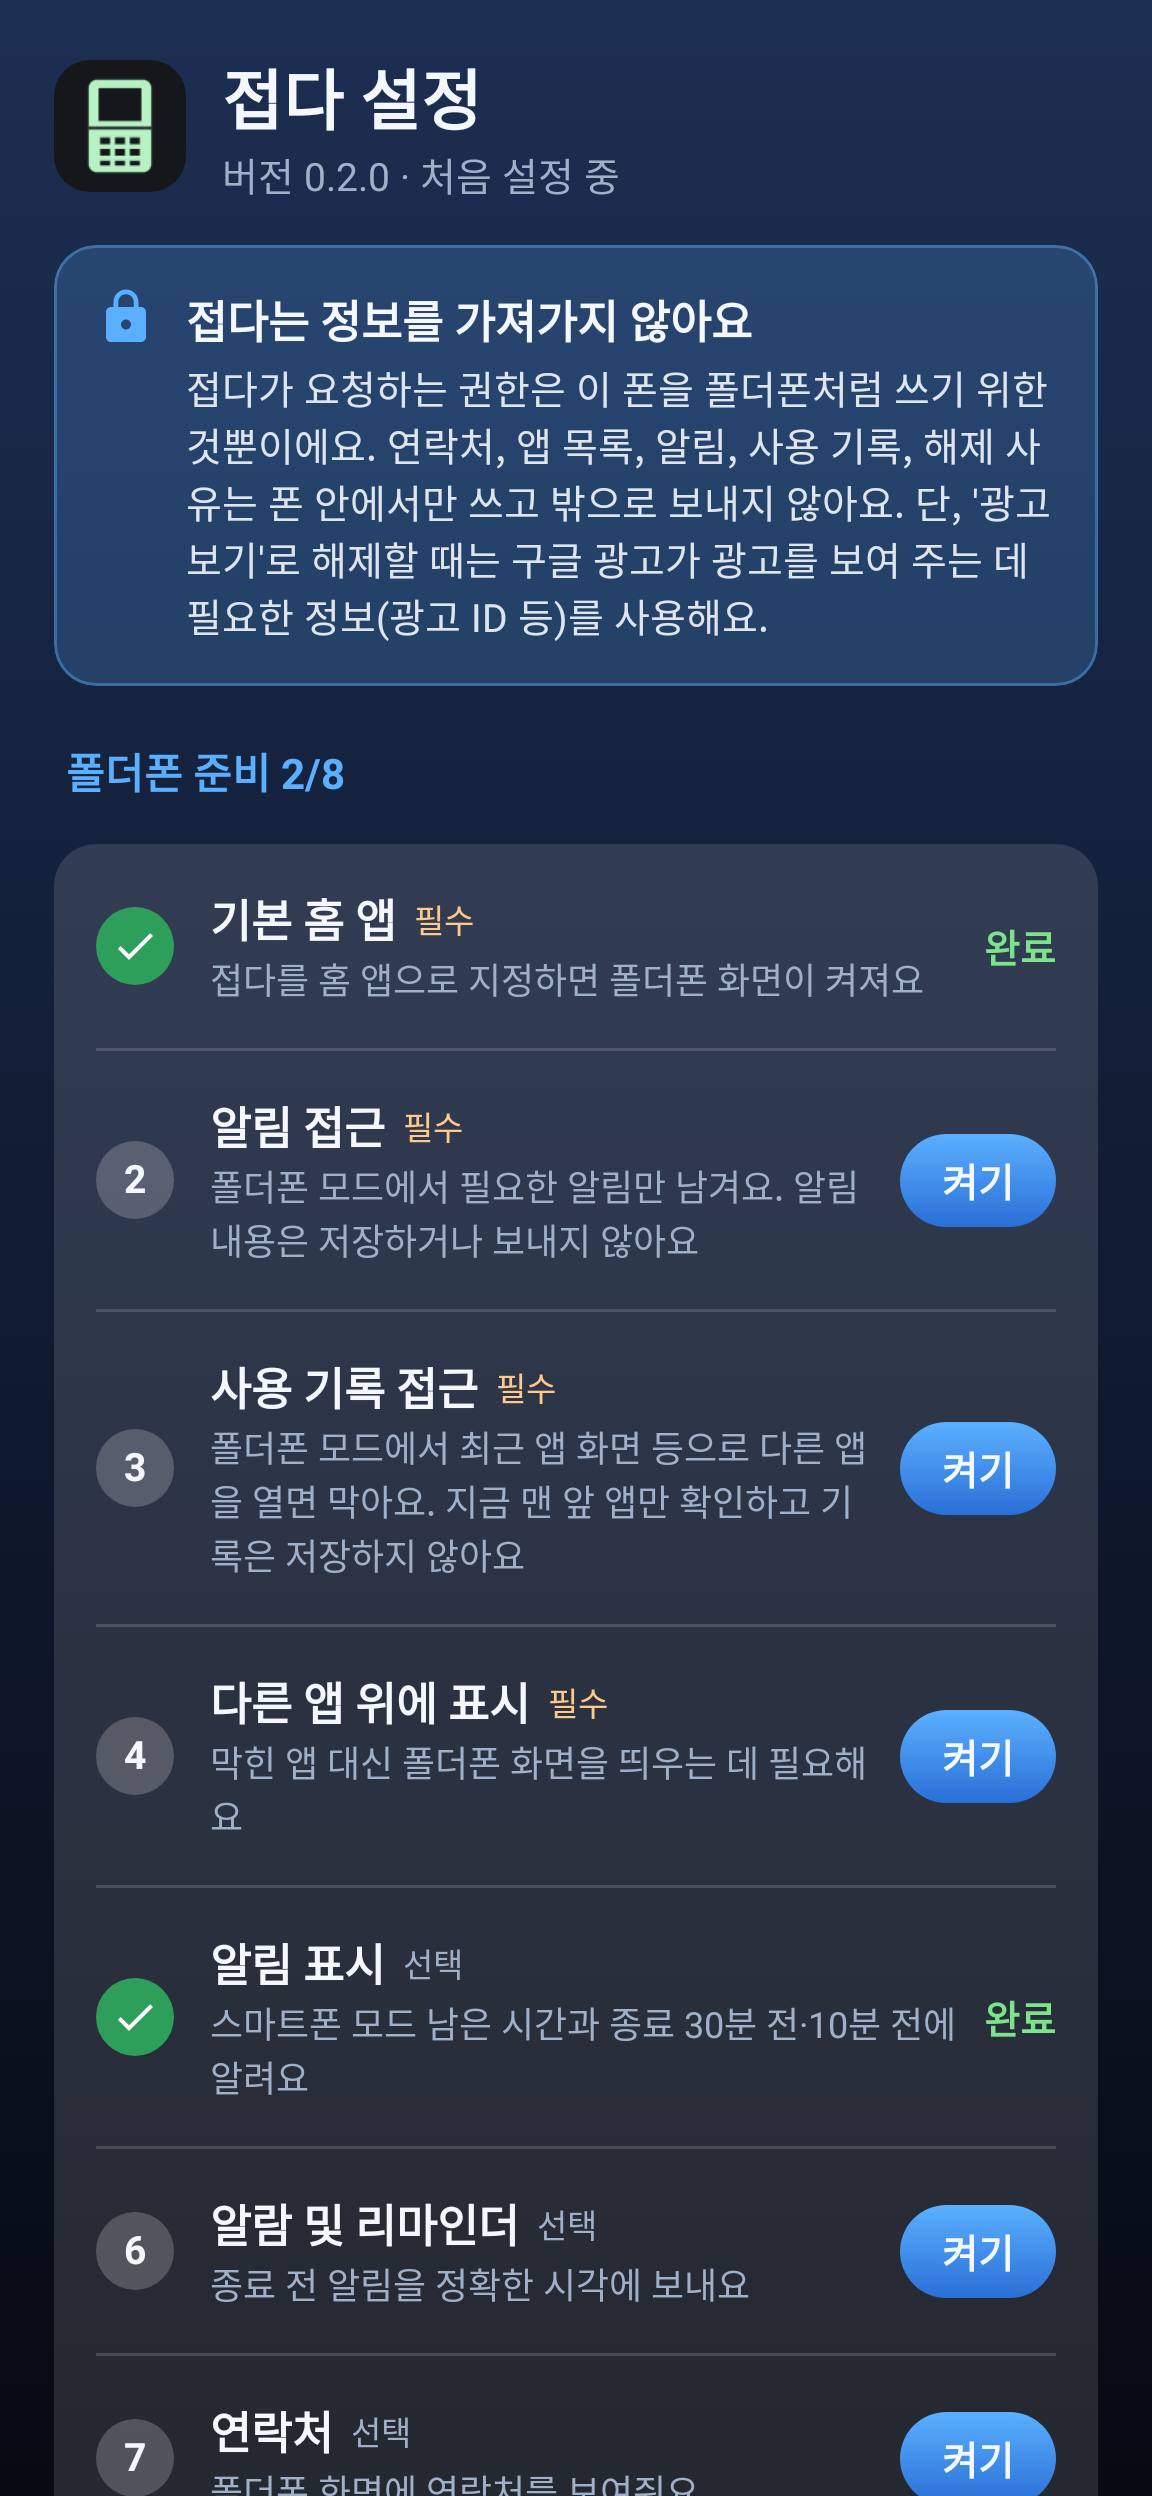
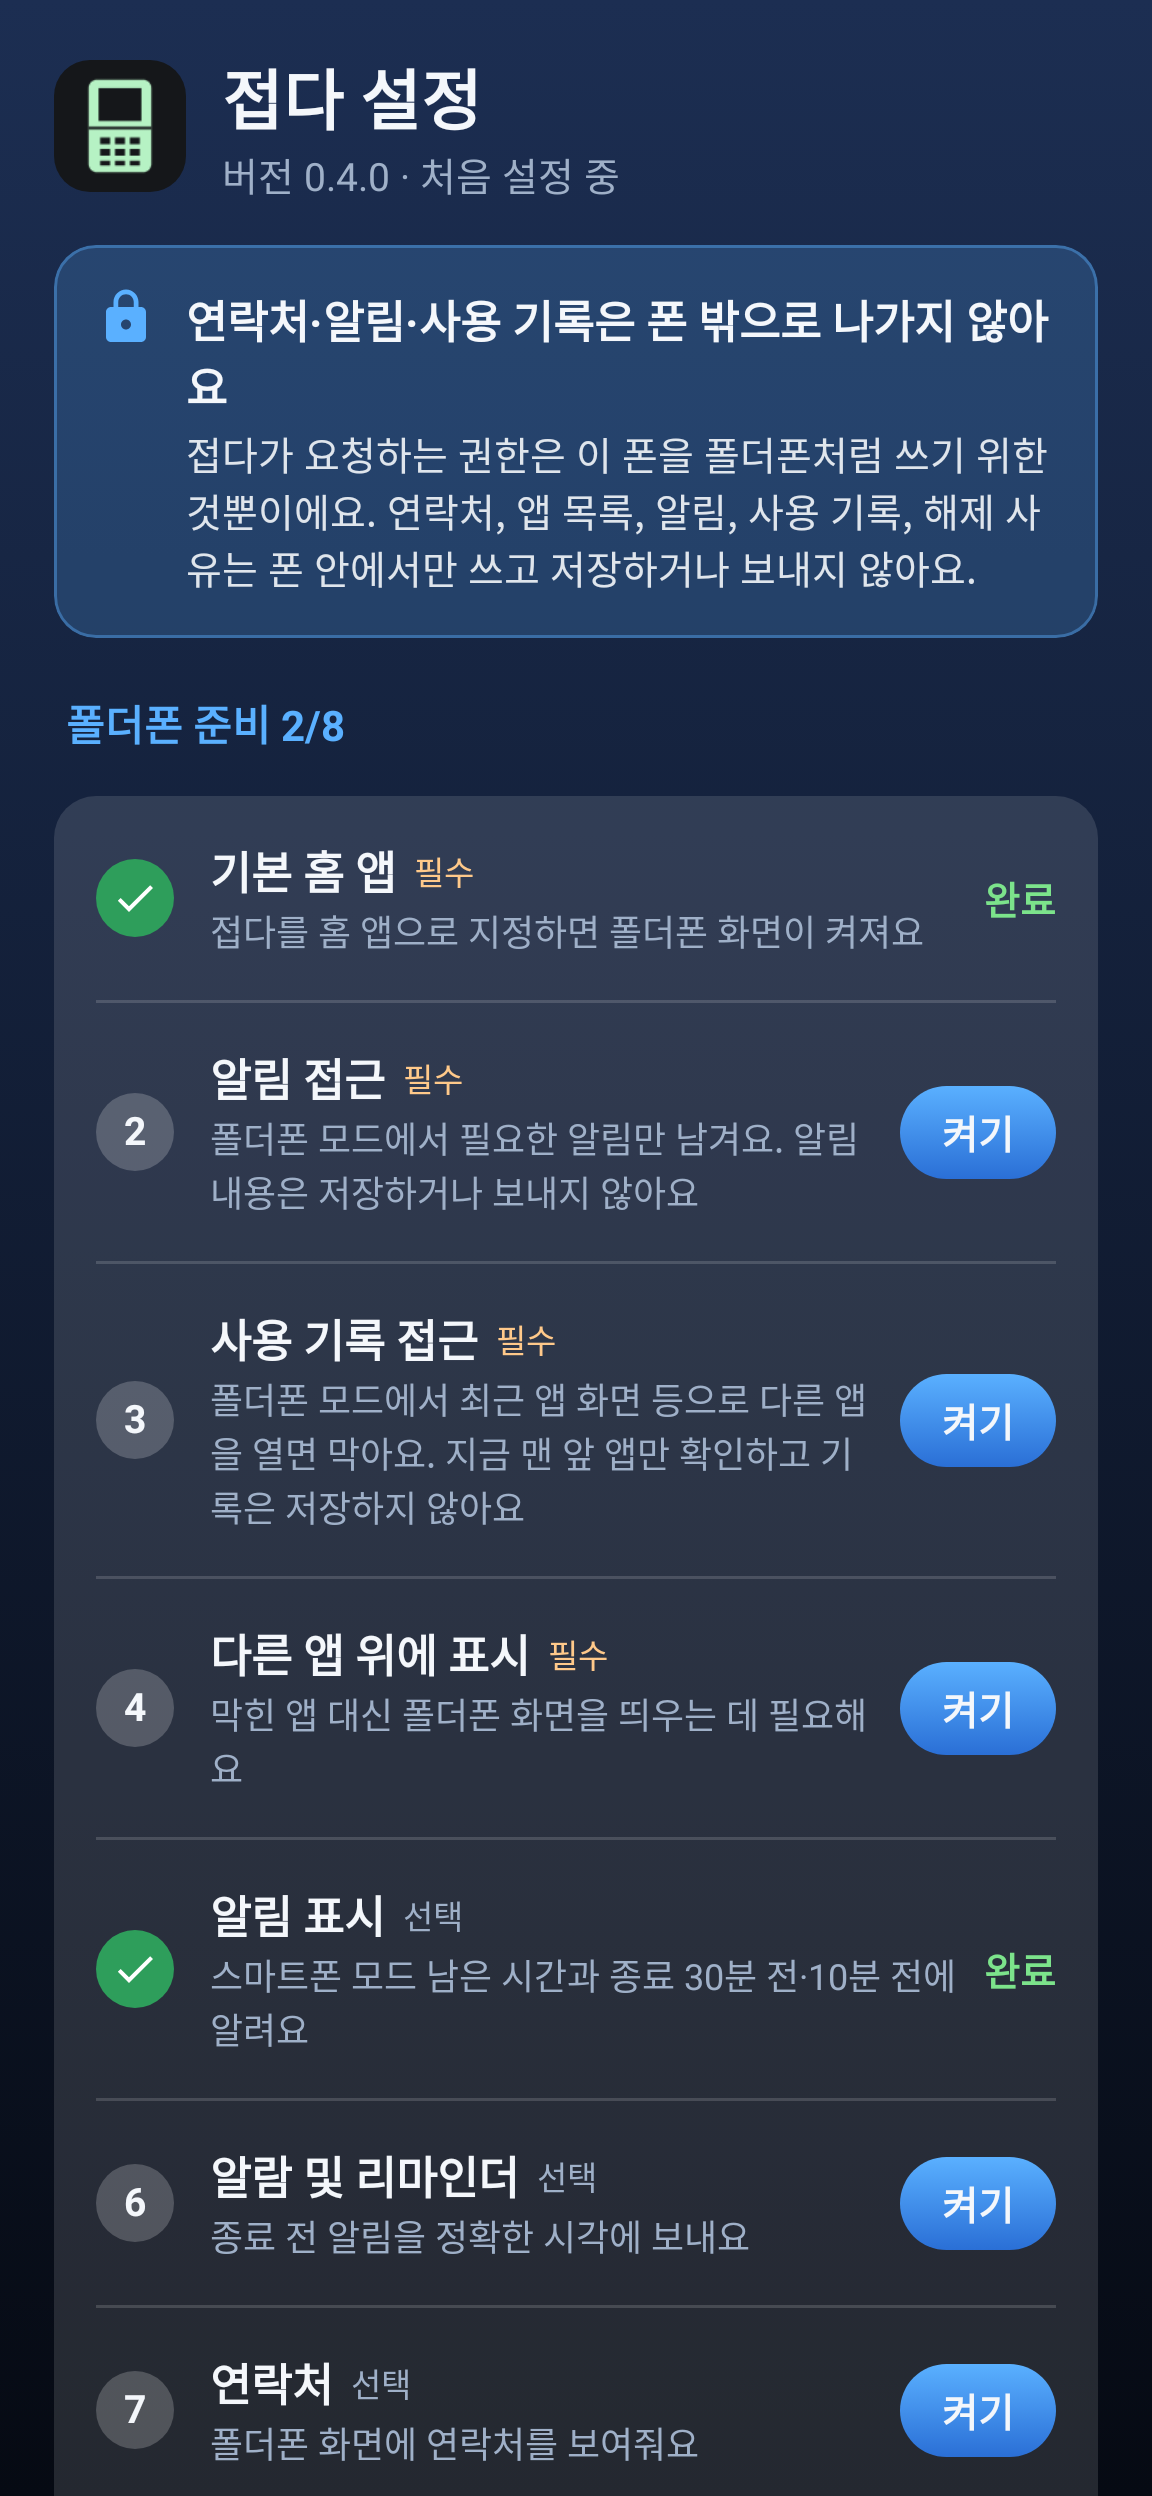
설정 안내 문구: 광고 문장 빼고 제목을 사실대로 좁힘
- '연락처·알림·사용 기록은 폰 밖으로 나가지 않아요'
- 광고 관련 고지는 개인정보처리방침과 Play 데이터 보안에서

Claude-Session: https://claude.ai/code/session_01NTGzdmekjWKd9sVyjh3UtQ

diff --git a/app/src/main/java/com/aggro1025/jeopda/ui/settings/SettingsDesign.kt b/app/src/main/java/com/aggro1025/jeopda/ui/settings/SettingsDesign.kt
@@ -153,17 +153,11 @@ fun SettingsDesign(ui: SettingsUi, cb: SettingsCallbacks = NoCallbacks) {
                 Icon(Icons.Filled.Lock, null, tint = Scr.accent, modifier = Modifier.size(20.dp))
                 Spacer(Modifier.width(10.dp))
                 Column {
-                    Text("접다는 정보를 가져가지 않아요", style = t(15.sp, weight = FontWeight.Bold))
+                    Text("연락처·알림·사용 기록은 폰 밖으로 나가지 않아요", style = t(15.sp, weight = FontWeight.Bold))
                     Spacer(Modifier.height(2.dp))
                     Text(
                         "접다가 요청하는 권한은 이 폰을 폴더폰처럼 쓰기 위한 것뿐이에요. " +
-                            "연락처, 앱 목록, 알림, 사용 기록, 해제 사유는 폰 안에서만 쓰고 밖으로 보내지 않아요.",
-                        style = t(13.sp, Scr.text.copy(alpha = 0.9f)),
-                    )
-                    Spacer(Modifier.height(6.dp))
-                    Text(
-                        "광고 안내: 해제할 때 '광고 2개 보기'를 고르면, 광고를 보여 주는 구글이 광고 ID 같은 " +
-                            "광고용 정보를 사용해요. 접다는 이 정보를 받지 않아요.",
+                            "연락처, 앱 목록, 알림, 사용 기록, 해제 사유는 폰 안에서만 쓰고 저장하거나 보내지 않아요.",
                         style = t(13.sp, Scr.text.copy(alpha = 0.9f)),
                     )
                 }
